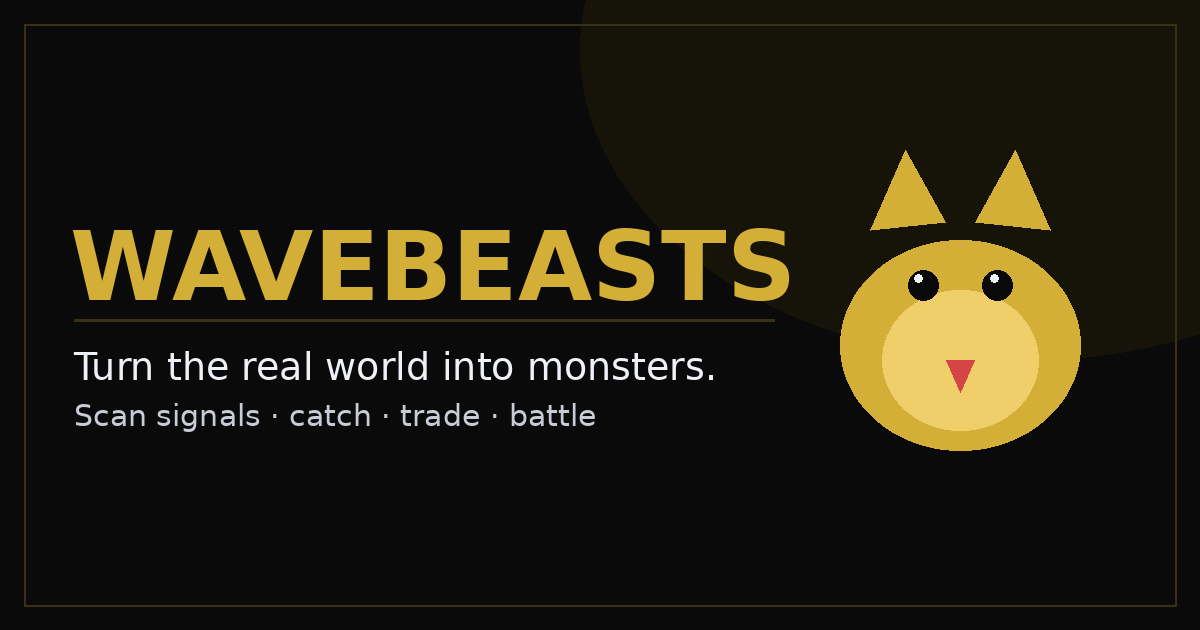
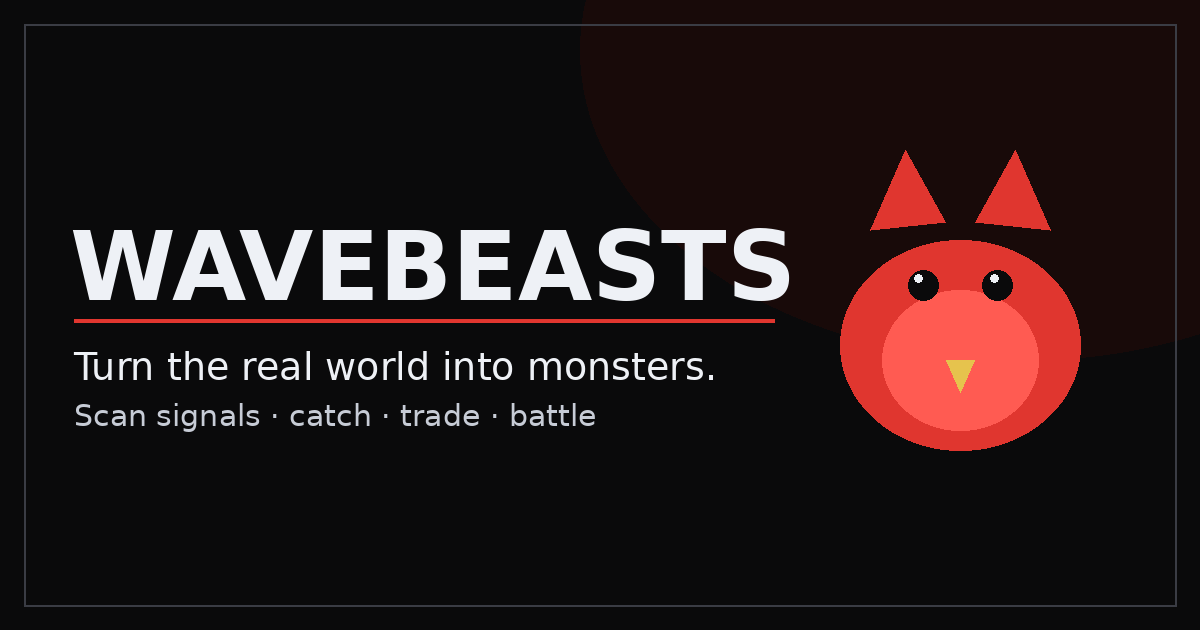
Theme: black/silver/red palette with yellow accent + wavy/glitch motion
- Retoned to black/silver/red as the mains, yellow as a sparing accent (legendary,
  shiny, cores, XP). Red primary buttons (light text), red nav/wordmark.
- "Wavy" animated background, glitch wordmark, faint scanline overlay, hover flicker;
  all disabled under prefers-reduced-motion.
- Favicon + OG social card regenerated in the new palette.

diff --git a/templates/base.html b/templates/base.html
@@ -24,19 +24,21 @@
     --bg:#0a0a0b; --panel:#131316; --elev:#1a1a20; --line:#2a2a31; --line2:#3a3a44;
     --ink:#e9ebf0; --mut:#9095a0; --dim:#6b7080;
     --silver:#c7ccd6; --silver-hi:#eef1f6;
-    --gold:#d4af37; --gold-hi:#f0cf6b; --gold-dim:#8f7526;
-    --red:#d64545; --red-dim:#8f2f2f;
+    --red:#e0362f; --red-hi:#ff5b52; --red-dim:#9e2822;
+    --yellow:#e6c34d; --yellow-hi:#ffdd6b;
     --shadow:0 8px 30px rgba(0,0,0,.5);
   }
   *{box-sizing:border-box}
   html,body{margin:0}
-  body{background:var(--bg);color:var(--ink);font-family:Inter,system-ui,sans-serif;font-size:15px;line-height:1.55;
-    background-image:radial-gradient(1200px 600px at 80% -10%, rgba(212,175,55,.06), transparent 60%),
-                     radial-gradient(900px 500px at -10% 10%, rgba(214,69,69,.05), transparent 55%);
-    background-attachment:fixed;min-height:100vh}
-  a{color:var(--gold);text-decoration:none} a:hover{color:var(--gold-hi)}
+  body{background:var(--bg);color:var(--ink);font-family:Inter,system-ui,sans-serif;font-size:15px;line-height:1.55;min-height:100vh;
+    background-image:
+      radial-gradient(1200px 620px at 80% -12%, rgba(224,54,47,.10), transparent 60%),
+      radial-gradient(900px 520px at -10% 8%, rgba(230,195,77,.05), transparent 55%),
+      repeating-linear-gradient(115deg, transparent 0 54px, rgba(199,204,214,.02) 54px 56px);
+    background-size:200% 200%,200% 200%,200% 200%;animation:wbWave 30s linear infinite alternate}
+  a{color:var(--red);text-decoration:none} a:hover{color:var(--red-hi)}
   h1,h2,h3,.brand{font-family:'Space Grotesk',sans-serif}
-  .wordmark{font-weight:700;letter-spacing:5px;background:linear-gradient(100deg,var(--silver-hi),var(--gold) 60%,var(--gold-dim));
+  .wordmark{font-weight:700;letter-spacing:5px;background:linear-gradient(100deg,var(--silver-hi),var(--red) 60%,var(--red-dim));
     -webkit-background-clip:text;background-clip:text;color:transparent}
 
   nav.top{position:sticky;top:0;z-index:20;display:flex;align-items:center;gap:20px;padding:14px 22px;
@@ -45,19 +47,20 @@
   nav.top .links{display:flex;gap:6px;margin-left:8px}
   nav.top .links a{color:var(--mut);font-weight:500;padding:6px 12px;border-radius:8px;font-size:14px;letter-spacing:.3px}
   nav.top .links a:hover{color:var(--ink);background:var(--elev)}
-  nav.top .links a.active{color:var(--gold);background:rgba(212,175,55,.10);box-shadow:inset 0 -2px 0 var(--gold)}
+  nav.top .links a.active{color:var(--red);background:rgba(224,54,47,.10);box-shadow:inset 0 -2px 0 var(--red)}
   nav.top .right{margin-left:auto;display:flex;align-items:center;gap:10px}
 
   main{max-width:1040px;margin:0 auto;padding:26px 18px 80px}
 
   .chip{display:inline-flex;align-items:center;gap:6px;background:var(--elev);border:1px solid var(--line);
     border-radius:20px;padding:5px 12px;font-size:13px;color:var(--mut)}
-  .chip b{color:var(--gold);font-family:'Space Grotesk'}
+  .chip b{color:var(--red);font-family:'Space Grotesk'}
   .chip.silver b{color:var(--silver-hi)}
+  .chip.acc b{color:var(--yellow)}
 
   .btn{display:inline-flex;align-items:center;gap:8px;cursor:pointer;border:0;border-radius:10px;padding:10px 16px;
     font-family:'Space Grotesk';font-weight:600;letter-spacing:.5px;font-size:14px;
-    background:linear-gradient(180deg,var(--gold-hi),var(--gold) 55%,var(--gold-dim));color:#160f02;
+    background:linear-gradient(180deg,var(--red-hi),var(--red) 55%,var(--red-dim));color:#fff;
     box-shadow:0 2px 0 rgba(0,0,0,.3),inset 0 1px 0 rgba(255,255,255,.35)}
   .btn:hover{filter:brightness(1.06)}
   .btn.sec{background:transparent;color:var(--silver);border:1px solid var(--line2);box-shadow:none}
@@ -73,7 +76,7 @@
 
   input,select,textarea{width:100%;background:#0d0d10;border:1px solid var(--line2);color:var(--ink);
     border-radius:10px;padding:11px 12px;font-size:15px;font-family:inherit}
-  input:focus,select:focus,textarea:focus{outline:none;border-color:var(--gold-dim);box-shadow:0 0 0 3px rgba(212,175,55,.12)}
+  input:focus,select:focus,textarea:focus{outline:none;border-color:var(--red-dim);box-shadow:0 0 0 3px rgba(224,54,47,.12)}
   label{font-size:13px;color:var(--mut);display:block;margin:0 0 6px}
   code{background:#0d0d10;border:1px solid var(--line);border-radius:6px;padding:2px 7px;font-size:13px;color:var(--silver)}
   pre{background:#0d0d10;border:1px solid var(--line);border-radius:10px;padding:14px;overflow:auto;font-size:12.5px;color:var(--silver)}
@@ -87,7 +90,7 @@
   .beast{position:relative;background:linear-gradient(180deg,var(--panel),#0e0e11);border:1px solid var(--line);
     border-radius:14px;padding:12px;text-align:center;transition:transform .12s,border-color .12s}
   .beast:hover{transform:translateY(-3px);border-color:var(--line2)}
-  .beast .stage{background:radial-gradient(60% 60% at 50% 45%,rgba(212,175,55,.10),transparent 70%);border-radius:12px;padding:6px}
+  .beast .stage{background:radial-gradient(60% 60% at 50% 45%,rgba(224,54,47,.10),transparent 70%);border-radius:12px;padding:6px}
   .beast img{width:104px;height:104px;image-rendering:pixelated}
   .beast .nm{font-family:'Space Grotesk';font-weight:600;font-size:15px;margin-top:4px}
   .beast .ty{font-size:11.5px;color:var(--mut);letter-spacing:.4px}
@@ -96,10 +99,10 @@
   .rt-common{color:var(--mut);border-color:var(--line2)}
   .rt-uncommon{color:var(--silver);border-color:#4a4a54}
   .rt-rare{color:var(--silver-hi);border-color:var(--silver);background:rgba(199,204,214,.06)}
-  .rt-epic{color:var(--gold);border-color:var(--gold-dim);background:rgba(212,175,55,.08)}
-  .rt-legendary{color:var(--gold-hi);border-color:var(--gold);background:rgba(212,175,55,.14);box-shadow:0 0 18px rgba(212,175,55,.18)}
-  .shiny{position:absolute;top:8px;right:8px;font-size:10px;font-weight:700;letter-spacing:1px;color:#160f02;
-    background:linear-gradient(180deg,var(--gold-hi),var(--gold));padding:2px 7px;border-radius:6px;font-family:'Space Grotesk'}
+  .rt-epic{color:var(--red-hi);border-color:var(--red-dim);background:rgba(224,54,47,.10)}
+  .rt-legendary{color:var(--yellow-hi);border-color:var(--yellow);background:rgba(230,195,77,.14);box-shadow:0 0 18px rgba(230,195,77,.22)}
+  .shiny{position:absolute;top:8px;right:8px;font-size:10px;font-weight:700;letter-spacing:1px;color:#1a1405;
+    background:linear-gradient(180deg,var(--yellow-hi),var(--yellow));padding:2px 7px;border-radius:6px;font-family:'Space Grotesk'}
   .lv{position:absolute;top:8px;left:8px;font-size:11px;color:var(--silver);background:rgba(0,0,0,.4);border:1px solid var(--line);border-radius:6px;padding:1px 7px}
 
   /* auth modal */
@@ -113,6 +116,18 @@
   .errornote,.errorlist{color:var(--red);font-size:13px;list-style:none;padding:0;margin:0 0 12px}
   .grow{flex:1}
   .stack{display:flex;gap:10px;flex-wrap:wrap;align-items:center}
+  /* --- wavy / glitch motion --- */
+  @keyframes wbWave{0%{background-position:0% 0%,100% 100%,0 0}100%{background-position:100% 40%,0% 60%,260px 0}}
+  @keyframes wbGlitch{0%,86%,100%{text-shadow:none;transform:none}88%{text-shadow:-2px 0 var(--red),2px 0 var(--silver);transform:skewX(-3deg)}91%{text-shadow:2px 0 var(--yellow),-2px 0 var(--silver-hi);transform:translateX(1px)}94%{text-shadow:-1px 0 var(--red),1px 0 var(--silver);transform:none}}
+  @keyframes wbFloat{0%,100%{transform:translateY(0)}50%{transform:translateY(-3px)}}
+  @keyframes wbFlick{0%,100%{transform:none;filter:none}30%{transform:translateX(-1px) skewX(-2deg)}60%{transform:translateX(1px);filter:brightness(1.12)}}
+  body::after{content:"";position:fixed;inset:0;pointer-events:none;z-index:60;opacity:.045;background:repeating-linear-gradient(0deg,#fff 0 1px,transparent 1px 3px);mix-blend-mode:overlay}
+  nav.top .brand{animation:wbGlitch 7s steps(1) infinite}
+  .card{animation:wbFloat 9s ease-in-out infinite}
+  .card:nth-of-type(even){animation-delay:-4.5s}
+  .btn:hover{animation:wbFlick .35s steps(2) 1}
+  .beast:hover{animation:wbFlick .5s steps(2) 1}
+  @media (prefers-reduced-motion:reduce){*{animation:none!important}}
 </style>
 </head>
 <body>
@@ -129,7 +144,7 @@
   </div>
   <div class="right">
     <span class="chip silver">Shards <b>{{ wb_wallet.shards }}</b></span>
-    <span class="chip">Cores <b>{{ wb_wallet.cores }}</b></span>
+    <span class="chip acc">Cores <b>{{ wb_wallet.cores }}</b></span>
     <form method="post" action="/logout/" style="display:inline;margin:0">{% csrf_token %}<button class="btn sec sm" type="submit">Sign out</button></form>
   </div>
   {% else %}

diff --git a/scripts/gen_og.py b/scripts/gen_og.py
@@ -7,25 +7,25 @@ from PIL import Image, ImageDraw, ImageFont
 
 W, H = 1200, 630
 BG = (10, 10, 11)
-GOLD = (212, 175, 55)
-GOLD_HI = (240, 207, 107)
+RED = (224, 54, 47)
+RED_HI = (255, 91, 82)
 SILVER = (199, 204, 214)
 SILVER_HI = (238, 241, 246)
-RED = (214, 69, 69)
+YELLOW = (230, 195, 77)
 BLACK = (10, 10, 11)
 
 img = Image.new("RGB", (W, H), BG)
 d = ImageDraw.Draw(img)
 
-# subtle gold glow, top-right
+# subtle red glow, top-right
 glow = Image.new("RGB", (W, H), BG)
 gd = ImageDraw.Draw(glow)
-gd.ellipse([W - 620, -260, W + 260, 360], fill=(30, 25, 8))
+gd.ellipse([W - 620, -260, W + 260, 360], fill=(34, 10, 9))
 img = Image.blend(img, glow, 0.6)
 d = ImageDraw.Draw(img)
 
-# gold hairline frame
-d.rectangle([24, 24, W - 24, H - 24], outline=(58, 48, 20), width=2)
+# silver hairline frame
+d.rectangle([24, 24, W - 24, H - 24], outline=(58, 60, 68), width=2)
 
 
 def font(sz, bold=True):
@@ -38,23 +38,23 @@ def font(sz, bold=True):
 
 
 # wordmark + tagline (left)
-d.text((70, 210), "WAVEBEASTS", font=font(96), fill=GOLD)
-# fake letterspacing shadow line under it
-d.line([74, 320, 74 + 700, 320], fill=(58, 48, 20), width=3)
+d.text((70, 210), "WAVEBEASTS", font=font(96), fill=SILVER_HI)
+# red underline
+d.line([74, 320, 74 + 700, 320], fill=RED, width=4)
 d.text((74, 344), "Turn the real world into monsters.", font=font(38, False), fill=SILVER_HI)
 d.text((74, 398), "Scan signals · catch · trade · battle", font=font(30, False), fill=SILVER)
 
-# beast (right), gold on the glow
+# beast (right), red on the glow, yellow accent
 cx, cy = 960, 300
-d.polygon([(cx - 90, cy - 70), (cx - 55, cy - 150), (cx - 15, cy - 78)], fill=GOLD)
-d.polygon([(cx + 90, cy - 70), (cx + 55, cy - 150), (cx + 15, cy - 78)], fill=GOLD)
-d.ellipse([cx - 120, cy - 60, cx + 120, cy + 150], fill=GOLD)
-d.ellipse([cx - 78, cy - 10, cx + 78, cy + 130], fill=GOLD_HI)
+d.polygon([(cx - 90, cy - 70), (cx - 55, cy - 150), (cx - 15, cy - 78)], fill=RED)
+d.polygon([(cx + 90, cy - 70), (cx + 55, cy - 150), (cx + 15, cy - 78)], fill=RED)
+d.ellipse([cx - 120, cy - 60, cx + 120, cy + 150], fill=RED)
+d.ellipse([cx - 78, cy - 10, cx + 78, cy + 130], fill=RED_HI)
 d.ellipse([cx - 52, cy - 30, cx - 22, cy], fill=BLACK)
 d.ellipse([cx + 22, cy - 30, cx + 52, cy], fill=BLACK)
 d.ellipse([cx - 46, cy - 26, cx - 38, cy - 18], fill=SILVER_HI)
 d.ellipse([cx + 30, cy - 26, cx + 38, cy - 18], fill=SILVER_HI)
-d.polygon([(cx - 14, cy + 60), (cx, cy + 92), (cx + 14, cy + 60)], fill=RED)
+d.polygon([(cx - 14, cy + 60), (cx, cy + 92), (cx + 14, cy + 60)], fill=YELLOW)
 
 out = os.path.join(os.path.dirname(__file__), "..", "play", "static", "og.png")
 img.save(out, "PNG")
